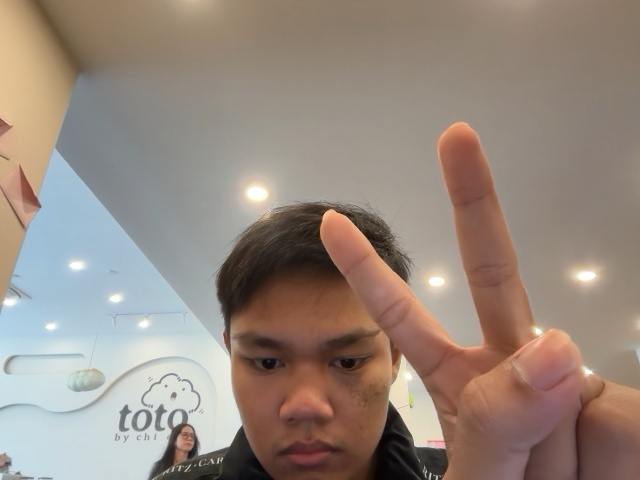
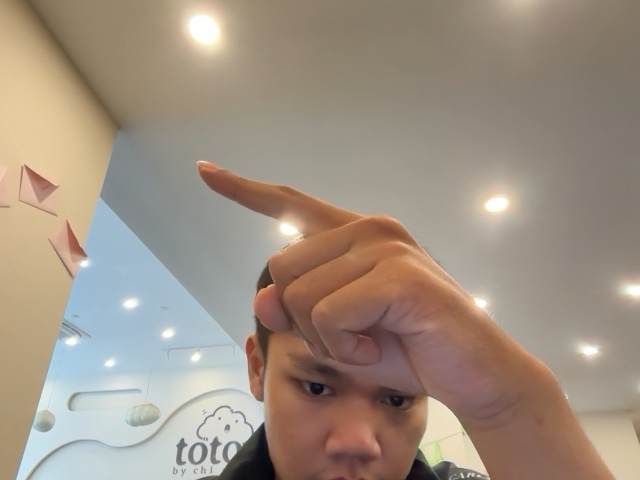
reverse

diff --git a/Frontend/src/components/ProtectedRoute.jsx b/Frontend/src/components/ProtectedRoute.jsx
@@ -1,0 +1,13 @@
+import { Navigate } from "react-router-dom";
+
+const ProtectedRoute = ({ children }) => {
+    const user = JSON.parse(localStorage.getItem("user"));
+
+    if (!user) {
+        return <Navigate to="/Login" replace />;
+    }
+
+    return children;
+};
+
+export default ProtectedRoute;
